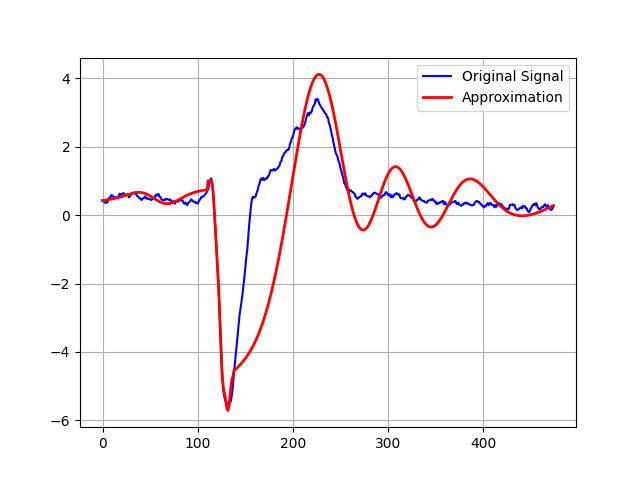
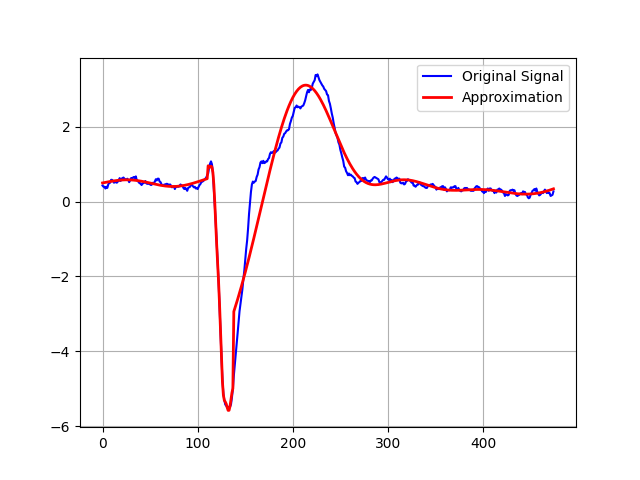
Hermite complete

diff --git a/tests/Hermite_tests/test_hermite_coeff.py b/tests/Hermite_tests/test_hermite_coeff.py
@@ -1,13 +1,14 @@
 from Hermite.hermite_coeff import hermite_coeff
 import numpy as np
+import numpy.testing as npt
 
 
 def test_1():
-    signal = np.array([0,-0.033729,-0.036644,-0.085781,-0.042474,-0.076204,0.013325,0.056632,0.053717,0.12784,0.12492,0.091195,0.042058,0.05455,0.051635,0.033313,0.061213,0.073705,0.14783,0.067875,0.12659,0.13908,0.15157,0.11785,0.099523,0.081201,0.1091,0.075371,0.010827,0.054134,0.11285,0.094526,0.12243,0.13492,0.10119,0.1445,0.033729,0.015407,-0.018322,-0.052052,-0.054967,-0.1041,-0.076204,-0.048304,-0.051219,-0.0079119,-0.072456,-0.090778,-0.078286,-0.096608,-0.11493,-0.13325,-0.12076,-0.077453,-0.095775,-0.052468,0.0062462,-0.027483,0.015824,0.012909,-0.067043,-0.085365,-0.14991,-0.16823,-0.18655,-0.15865,-0.17698,-0.14908,-0.15199,-0.17031,-0.18864,-0.17614,-0.20987,-0.25901,-0.24652,-0.23402,-0.31398,-0.25526,-0.25818,-0.24568,-0.26401,-0.23611,-0.20821,-0.24194,-0.24485,-0.3094,-0.34312,-0.31523,-0.34895,-0.39809,-0.32397,-0.31148,-0.29898,-0.24027,-0.25859,-0.29232,-0.32605,-0.31356,-0.3627,-0.3502,-0.38393,-0.32522,-0.28191,-0.25401,-0.1953,-0.19821,-0.18572,-0.15782,-0.12992,-0.10202,-0.043307,0])  # Your signal array
+    signal = np.array([0,-0.033729,-0.036644,-0.085781,-0.042474,-0.076204,0.013325,0.056632,0.053717,0.12784,0.12492,0.091195,0.042058,0.05455,0.051635,0.033313,0.061213,0.073705,0.14783,0.067875,0.12659,0.13908,0.15157,0.11785,0.099523,0.081201,0.1091,0.075371,0.010827,0.054134,0.11285,0.094526,0.12243,0.13492,0.10119,0.1445,0.033729,0.015407,-0.018322,-0.052052,-0.054967,-0.1041,-0.076204,-0.048304,-0.051219,-0.0079119,-0.072456,-0.090778,-0.078286,-0.096608,-0.11493,-0.13325,-0.12076,-0.077453,-0.095775,-0.052468,0.0062462,-0.027483,0.015824,0.012909,-0.067043,-0.085365,-0.14991,-0.16823,-0.18655,-0.15865,-0.17698,-0.14908,-0.15199,-0.17031,-0.18864,-0.17614,-0.20987,-0.25901,-0.24652,-0.23402,-0.31398,-0.25526,-0.25818,-0.24568,-0.26401,-0.23611,-0.20821,-0.24194,-0.24485,-0.3094,-0.34312,-0.31523,-0.34895,-0.39809,-0.32397,-0.31148,-0.29898,-0.24027,-0.25859,-0.29232,-0.32605,-0.31356,-0.3627,-0.3502,-0.38393,-0.32522,-0.28191,-0.25401,-0.1953,-0.19821,-0.18572,-0.15782,-0.12992,-0.10202,-0.043307,0])  
     dilat = 10               # Example dilation parameter
     trans = 0                 # Example translation parameter
     alpha = np.array([-14.2437,-13.6725,-13.2015,-12.7825,-12.3973,-12.0363,-11.694,-11.3666,-11.0514,-10.7466,-10.4506,-10.1623,-9.88086,-9.6054,-9.33532,-9.0701,-8.80928,-8.55246,-8.29931,-8.04952,-7.80283,-7.55899,-7.31781,-7.07908,-6.84264,-6.60833,-6.376,-6.14553,-5.91678,-5.68965,-5.46404,-5.23984,-5.01697,-4.79534,-4.57487,-4.35549,-4.13711,-3.91969,-3.70314,-3.48741,-3.27244,-3.05818,-2.84456,-2.63154,-2.41907,-2.20709,-1.99557,-1.78444,-1.57368,-1.36323,-1.15305,-0.943095,-0.733327,-0.523703,-0.314181,-0.10472,0.10472,0.314181,0.523703,0.733327,0.943095,1.15305,1.36323,1.57368,1.78444,1.99557,2.20709,2.41907,2.63154,2.84456,3.05818,3.27244,3.48741,3.70314,3.91969,4.13711,4.35549,4.57487,4.79534,5.01697,5.23984,5.46404,5.68965,5.91678,6.14553,6.376,6.60833,6.84264,7.07908,7.31781,7.55899,7.80283,8.04952,8.29931,8.55246,8.80928,9.0701,9.33532,9.6054,9.88086,10.1623,10.4506,10.7466,11.0514,11.3666,11.694,12.0363,12.3973,12.7825,13.2015,13.6725,14.2437])   # Roots of the Nth Hermite polynomial
-    Lambda2 = np.array([[1.5123,2.2026e-13,4.0004e-14,1.0579e-14,2.1289e-14,-7.276e-15,8.3006e-15,1.1423e-14,2.34e-14,-3.3649e-14,-4.2373e-15,7.2067e-15,1.3732e-14,-1.0539e-14,-1.3648e-15,-1.1976e-14,3.553e-15,3.545e-15,1.197e-15,-4.5212e-15,8.3468e-15,1.7849e-15,3.7045e-15,-3.8944e-15,4.9891e-15,-5.8e-15,6.0457e-15,-4.9279e-15,7.5839e-15,-5.6554e-15,4.1152e-15,-5.9194e-15,4.636e-15,-4.0993e-15,4.8569e-15,-4.6171e-15,3.8283e-15,-3.7689e-15,3.5033e-15,-3.215e-15,3.6277e-15,-3.0216e-15,3.97e-15,-3.7075e-15,3.5073e-15,-3.1188e-15,3.2602e-15,-2.643e-15,3.0332e-15,-2.9989e-15,2.9734e-15,-2.8871e-15,2.8463e-15,-2.8233e-15,2.7859e-15,-2.7345e-15,2.7364e-15,-2.6957e-15,2.6028e-15,-2.5164e-15,2.4661e-15,-2.4798e-15,2.5283e-15,-2.4503e-15,2.1656e-15,-2.2023e-15,2.171e-15,-1.9435e-15,2.2653e-15,-2.6684e-15,2.1875e-15,-2.8264e-15,2.2887e-15,-2.2466e-15,2.1341e-15,-1.7487e-15,2.4527e-15,-1.7383e-15,1.4043e-15,-1.1847e-15,2.7254e-15,-2.8048e-16,1.2631e-15,-1.0571e-15,1.5091e-15,-1.0033e-15,9.3585e-16,-1.4949e-15,2.779e-15,-1.7298e-15,3.901e-15,-1.3653e-15,1.8983e-15,-2.7756e-15,7.0118e-16,-6.8094e-16,3.7171e-15,-1.1876e-15,-1.2869e-16,-9.499e-16,4.724e-15,1.8332e-16,-2.3261e-15,-3.739e-15,1.9271e-15,-1.5283e-15,3.487e-15,-1.3676e-16,-3.6625e-17,-3.7606e-15,6.2751e-15,2.2204e-16]
+    Lambda = np.array([[1.5123,2.2026e-13,4.0004e-14,1.0579e-14,2.1289e-14,-7.276e-15,8.3006e-15,1.1423e-14,2.34e-14,-3.3649e-14,-4.2373e-15,7.2067e-15,1.3732e-14,-1.0539e-14,-1.3648e-15,-1.1976e-14,3.553e-15,3.545e-15,1.197e-15,-4.5212e-15,8.3468e-15,1.7849e-15,3.7045e-15,-3.8944e-15,4.9891e-15,-5.8e-15,6.0457e-15,-4.9279e-15,7.5839e-15,-5.6554e-15,4.1152e-15,-5.9194e-15,4.636e-15,-4.0993e-15,4.8569e-15,-4.6171e-15,3.8283e-15,-3.7689e-15,3.5033e-15,-3.215e-15,3.6277e-15,-3.0216e-15,3.97e-15,-3.7075e-15,3.5073e-15,-3.1188e-15,3.2602e-15,-2.643e-15,3.0332e-15,-2.9989e-15,2.9734e-15,-2.8871e-15,2.8463e-15,-2.8233e-15,2.7859e-15,-2.7345e-15,2.7364e-15,-2.6957e-15,2.6028e-15,-2.5164e-15,2.4661e-15,-2.4798e-15,2.5283e-15,-2.4503e-15,2.1656e-15,-2.2023e-15,2.171e-15,-1.9435e-15,2.2653e-15,-2.6684e-15,2.1875e-15,-2.8264e-15,2.2887e-15,-2.2466e-15,2.1341e-15,-1.7487e-15,2.4527e-15,-1.7383e-15,1.4043e-15,-1.1847e-15,2.7254e-15,-2.8048e-16,1.2631e-15,-1.0571e-15,1.5091e-15,-1.0033e-15,9.3585e-16,-1.4949e-15,2.779e-15,-1.7298e-15,3.901e-15,-1.3653e-15,1.8983e-15,-2.7756e-15,7.0118e-16,-6.8094e-16,3.7171e-15,-1.1876e-15,-1.2869e-16,-9.499e-16,4.724e-15,1.8332e-16,-2.3261e-15,-3.739e-15,1.9271e-15,-1.5283e-15,3.487e-15,-1.3676e-16,-3.6625e-17,-3.7606e-15,6.2751e-15,2.2204e-16]
         ,[2.2026e-13,1.9681,-4.2573e-13,1.6026e-13,-1.6582e-13,1.1635e-13,-1.0144e-13,6.1756e-14,-1.0221e-13,1.0948e-13,-5.284e-14,4.5165e-14,-6.913e-14,6.1799e-14,-4.3674e-14,5.8608e-14,-4.5839e-14,3.5097e-14,-3.9408e-14,4.2174e-14,-4.56e-14,3.16e-14,-3.7285e-14,3.6515e-14,-3.6923e-14,3.697e-14,-3.6371e-14,3.4288e-14,-3.6781e-14,3.3637e-14,-3.1195e-14,3.2753e-14,-3.0576e-14,2.9369e-14,-2.9778e-14,2.8965e-14,-2.7543e-14,2.7006e-14,-2.6197e-14,2.5405e-14,-2.5512e-14,2.4366e-14,-2.5098e-14,2.4436e-14,-2.3791e-14,2.2989e-14,-2.2841e-14,2.1745e-14,-2.1918e-14,2.1601e-14,-2.1215e-14,2.0921e-14,-2.0556e-14,2.0298e-14,-1.9945e-14,1.9637e-14,-1.9358e-14,1.9084e-14,-1.8746e-14,1.8419e-14,-1.814e-14,1.792e-14,-1.7711e-14,1.7425e-14,-1.6836e-14,1.6648e-14,-1.6437e-14,1.5902e-14,-1.6152e-14,1.639e-14,-1.565e-14,1.6214e-14,-1.5389e-14,1.5217e-14,-1.4946e-14,1.4292e-14,-1.501e-14,1.3985e-14,-1.3416e-14,1.2986e-14,-1.4687e-14,1.1627e-14,-1.2619e-14,1.2169e-14,-1.2513e-14,1.1739e-14,-1.1477e-14,1.2008e-14,-1.3285e-14,1.1888e-14,-1.4251e-14,1.114e-14,-1.1563e-14,1.2458e-14,-9.9022e-15,9.668e-15,-1.3133e-14,9.936e-15,-8.2946e-15,9.3675e-15,-1.3543e-14,7.687e-15,-4.9203e-15,1.1785e-14,-9.4002e-15,8.7821e-15,-1.0741e-14,6.55e-15,-5.9839e-15,1.0091e-14,-1.2546e-14,4.5148e-15]
         ,[4.0004e-14,-4.2573e-13,2.269,1.7376e-13,-8.3836e-15,3.2377e-14,-2.2153e-14,5.5229e-14,1.3976e-14,-3.3415e-14,-2.9652e-14,3.2329e-14,3.0002e-15,1.337e-15,-1.905e-14,-2.5188e-15,-9.5768e-15,1.9614e-14,-1.1894e-14,6.2576e-15,-2.7553e-16,1.4675e-14,-6.2927e-15,5.6282e-15,-3.7628e-15,2.4154e-15,-1.7637e-15,3.108e-15,9.0777e-16,1.6991e-15,-3.5955e-15,8.8124e-16,-2.4783e-15,2.9868e-15,-1.7891e-15,1.9371e-15,-2.8571e-15,2.6869e-15,-2.9463e-15,3.1806e-15,-2.4232e-15,3.1004e-15,-1.7462e-15,1.9261e-15,-2.1009e-15,2.5191e-15,-2.2311e-15,2.989e-15,-2.2935e-15,2.2749e-15,-2.2502e-15,2.216e-15,-2.1679e-15,2.1048e-15,-2.108e-15,2.1049e-15,-2.0116e-15,1.9865e-15,-2.0697e-15,2.0044e-15,-2.0608e-15,1.9325e-15,-1.7985e-15,1.8425e-15,-2.1794e-15,2.0371e-15,-1.9765e-15,2.238e-15,-1.717e-15,1.1559e-15,-1.6853e-15,8.1102e-16,-1.4424e-15,1.4045e-15,-1.4887e-15,1.9798e-15,-9.682e-16,1.8531e-15,-2.2657e-15,2.4964e-15,-3.8092e-16,3.472e-15,-2.1293e-15,2.3292e-15,-1.6719e-15,2.2844e-15,-2.2792e-15,1.458e-15,1.8788e-16,1.0789e-15,1.7811e-15,1.5037e-15,-7.8277e-16,-4.2606e-16,-2.1875e-15,2.1609e-15,1.8277e-15,1.4138e-15,-2.9893e-15,1.5197e-15,3.3549e-15,2.7671e-15,-5.4856e-15,-2.2936e-15,1.8645e-17,4.5503e-16,2.1052e-15,1.9842e-15,-2.0556e-15,-2.6645e-15,6.324e-15,1.4894e-15]
         ,[1.0579e-14,1.6026e-13,1.7376e-13,2.4997,-1.873e-13,5.6158e-14,-4.5926e-14,-1.4057e-14,-6.8684e-14,8.5779e-14,-9.9447e-16,-5.1378e-15,-3.5094e-14,2.76e-14,-4.7665e-15,2.8303e-14,-1.2685e-14,1.4613e-16,-7.8288e-15,1.3199e-14,-1.916e-14,2.2449e-15,-1.0928e-14,1.1115e-14,-1.262e-14,1.3641e-14,-1.3816e-14,1.1834e-14,-1.5819e-14,1.2552e-14,-1.0008e-14,1.2685e-14,-1.0582e-14,9.659e-15,-1.0704e-14,1.0233e-14,-8.8823e-15,8.793e-15,-8.2466e-15,7.7569e-15,-8.3923e-15,7.3435e-15,-8.6545e-15,8.279e-15,-7.8615e-15,7.2174e-15,-7.3755e-15,6.4018e-15,-6.9671e-15,6.803e-15,-6.6856e-15,6.6111e-15,-6.4555e-15,6.3773e-15,-6.2186e-15,6.0949e-15,-6.0478e-15,5.9064e-15,-5.7132e-15,5.5992e-15,-5.5191e-15,5.5295e-15,-5.5194e-15,5.3885e-15,-4.9503e-15,4.9992e-15,-4.969e-15,4.5568e-15,-4.9844e-15,5.5143e-15,-4.8135e-15,5.6794e-15,-4.8946e-15,4.8069e-15,-4.6377e-15,4.059e-15,-5.0464e-15,4.0336e-15,-3.4883e-15,3.1579e-15,-5.3447e-15,1.9016e-15,-3.2676e-15,2.9458e-15,-3.5628e-15,2.7774e-15,-2.6638e-15,3.4881e-15,-5.1678e-15,3.7475e-15,-6.7396e-15,3.1956e-15,-3.8978e-15,5.081e-15,-2.2206e-15,2.0872e-15,-6.3018e-15,2.7811e-15,-9.593e-16,2.3288e-15,-7.5133e-15,8.2311e-16,2.1081e-15,6.0767e-15,-3.5731e-15,3.0025e-15,-5.5847e-15,1.0592e-15,-8.8818e-16,5.8784e-15,-9.3082e-15,6.2107e-16]
@@ -119,7 +120,6 @@ def test_1():
         ,[-3.7606e-15,1.0091e-14,-2.6645e-15,5.8784e-15,-3.4934e-15,4.8232e-15,-4.7763e-15,7.7885e-15,-2.4877e-15,4.1101e-16,-7.4414e-15,8.2813e-15,-3.7485e-15,4.4603e-15,-7.6038e-15,3.9087e-15,-6.4064e-15,8.7569e-15,-7.3843e-15,6.297e-15,-4.9308e-15,8.9339e-15,-6.8474e-15,6.863e-15,-6.405e-15,6.0625e-15,-5.9642e-15,6.5513e-15,-5.1327e-15,6.2251e-15,-7.0962e-15,6.0617e-15,-6.9111e-15,7.3132e-15,-6.845e-15,6.9956e-15,-7.6447e-15,7.7507e-15,-8.049e-15,8.3458e-15,-8.0776e-15,8.6345e-15,-7.9281e-15,8.2018e-15,-8.4484e-15,8.9191e-15,-8.8206e-15,9.5754e-15,-9.2351e-15,9.3816e-15,-9.5219e-15,9.6592e-15,-9.8051e-15,9.9398e-15,-1.0117e-14,1.0223e-14,-1.0325e-14,1.0489e-14,-1.0811e-14,1.0989e-14,-1.1261e-14,1.1373e-14,-1.145e-14,1.1771e-14,-1.2387e-14,1.2512e-14,-1.2723e-14,1.3408e-14,-1.2889e-14,1.2304e-14,-1.3405e-14,1.2278e-14,-1.3578e-14,1.3844e-14,-1.4337e-14,1.552e-14,-1.3942e-14,1.6083e-14,-1.7346e-14,1.84e-14,-1.4023e-14,2.1931e-14,-1.9303e-14,2.0434e-14,-1.932e-14,2.1755e-14,-2.261e-14,2.086e-14,-1.6266e-14,2.1345e-14,-1.1766e-14,2.4616e-14,-2.2864e-14,1.8594e-14,-3.1631e-14,3.3397e-14,-1.3713e-14,3.3234e-14,-4.5652e-14,3.9474e-14,-5.2739e-15,5.8176e-14,-9.1455e-14,1.6209e-14,-4.7827e-14,6.3859e-14,-2.56e-14,1.6641e-13,-3.2241e-13,2.269,-2.0989e-13,-9.8873e-14]
         ,[6.2751e-15,-1.2546e-14,6.324e-15,-9.3082e-15,7.3658e-15,-8.845e-15,8.9616e-15,-1.1698e-14,7.0998e-15,-5.3129e-15,1.1891e-14,-1.2799e-14,8.7533e-15,-9.5425e-15,1.2516e-14,-9.2949e-15,1.1632e-14,-1.387e-14,1.2727e-14,-1.1833e-14,1.0678e-14,-1.442e-14,1.26e-14,-1.2714e-14,1.2422e-14,-1.2252e-14,1.2283e-14,-1.2945e-14,1.1826e-14,-1.2927e-14,1.3844e-14,-1.3022e-14,1.385e-14,-1.434e-14,1.4001e-14,-1.4279e-14,1.4933e-14,-1.5116e-14,1.5477e-14,-1.5841e-14,1.5692e-14,-1.6341e-14,1.579e-14,-1.6147e-14,1.6532e-14,-1.7062e-14,1.7126e-14,-1.7981e-14,1.7783e-14,-1.8025e-14,1.8343e-14,-1.8609e-14,1.8927e-14,-1.9193e-14,1.9516e-14,-1.9802e-14,2.0067e-14,-2.037e-14,2.0805e-14,-2.1138e-14,2.1462e-14,-2.1727e-14,2.2003e-14,-2.2421e-14,2.3213e-14,-2.3493e-14,2.3892e-14,-2.4633e-14,2.4442e-14,-2.4173e-14,2.5434e-14,-2.4643e-14,2.6131e-14,-2.6653e-14,2.73e-14,-2.8675e-14,2.7542e-14,-2.9781e-14,3.1233e-14,-3.2456e-14,2.9032e-14,-3.6354e-14,3.4368e-14,-3.5835e-14,3.5365e-14,-3.7932e-14,3.922e-14,-3.8162e-14,3.482e-14,-3.9783e-14,3.2099e-14,-4.3841e-14,4.3148e-14,-4.0344e-14,5.2298e-14,-5.4693e-14,3.9561e-14,-5.7111e-14,6.8552e-14,-6.5148e-14,3.9692e-14,-8.4058e-14,1.1286e-13,-5.7955e-14,8.6571e-14,-1.0352e-13,8.4912e-14,-1.8232e-13,2.5875e-13,-2.0989e-13,1.9681,3.1141e-13]
         ,[2.2204e-16,4.5148e-15,1.4894e-15,6.2107e-16,1.4157e-15,-5.8711e-16,8.0742e-16,1.3057e-15,2.9113e-15,-4.6909e-15,-6.3602e-16,1.2036e-15,2.4772e-15,-2.0607e-15,-3.0224e-16,-2.6534e-15,8.7155e-16,8.5574e-16,3.1094e-16,-1.24e-15,2.4656e-15,5.5539e-16,1.1859e-15,-1.3233e-15,1.7965e-15,-2.1616e-15,2.3145e-15,-1.9952e-15,3.1443e-15,-2.4471e-15,1.8607e-15,-2.7331e-15,2.2482e-15,-2.0476e-15,2.4989e-15,-2.4517e-15,2.0864e-15,-2.1548e-15,2.0623e-15,-1.9338e-15,2.2643e-15,-1.9647e-15,2.6299e-15,-2.5102e-15,2.4394e-15,-2.2457e-15,2.416e-15,-2.0013e-15,2.4101e-15,-2.4409e-15,2.441e-15,-2.5044e-15,2.5249e-15,-2.5785e-15,2.5971e-15,-2.6564e-15,2.72e-15,-2.7759e-15,2.7127e-15,-2.7673e-15,2.7963e-15,-2.8695e-15,3.0006e-15,-3.0092e-15,2.7319e-15,-2.8388e-15,2.9076e-15,-2.6466e-15,3.2179e-15,-3.9341e-15,3.3623e-15,-4.4383e-15,3.7194e-15,-3.7867e-15,3.7379e-15,-3.1472e-15,4.6394e-15,-3.4128e-15,2.7922e-15,-2.469e-15,5.9739e-15,-6.9346e-16,2.9835e-15,-2.6216e-15,3.886e-15,-2.6614e-15,2.5649e-15,-4.4908e-15,8.3552e-15,-5.4617e-15,1.2858e-14,-4.7422e-15,6.9115e-15,-1.0623e-14,2.9488e-15,-2.9068e-15,1.7014e-14,-5.7224e-15,-3.7196e-16,-5.4315e-15,2.8269e-14,9.3128e-16,-1.6495e-14,-2.9389e-14,1.68e-14,-1.5427e-14,4.1109e-14,-1.4762e-15,-8.1152e-16,-9.8873e-14,3.1141e-13,1.5123]])  # Normalization parameters
-
 
     HMS = np.array([[6.6103e-45,-1.3316e-43]
         ,[1.9174e-41,-3.7074e-40]
@@ -234,6 +234,77 @@ def test_1():
         ,[1.9174e-41,3.7074e-40]
         ,[6.6103e-45,1.3316e-43]])     # Hermite polynomial values at roots
 
-    co = hermite_coeff(signal, dilat, trans, alpha, Lambda2, HMS)
-    assert round(co[0], 6)==0.010074
-    assert round(co[1], 6)==0.000269
+    expecting=np.array([0.010074, 0.000269])
+
+    co = hermite_coeff(signal, dilat, trans, alpha, Lambda, HMS)
+    npt.assert_array_almost_equal(co, expecting , 6)
+
+
+def test_2():
+    signal = np.array([0,0.35437,0.66251,0.92444,1.0477,1.0169,0.80118,0.53926,0.27733,-0.046222,-0.35437,-0.69333,-1.1864,-1.6794,-2.0954,-2.496,-2.6809,-2.6501,-2.573,-2.4035,-2.2495,-2.0338,-1.8335,-1.6332,-1.3712,-0.98607,-0.55466,0])
+    dilat = 0.27027              
+    trans = 0                 
+    alpha = np.array([-6.5916,-5.857,-5.2433,-4.6908,-4.1766,-3.6891,-3.2211,-2.7678,-2.3257,-1.8924,-1.4655,-1.0435,-0.62484,-0.20807,0.20807,0.62484,1.0435,1.4655,1.8924,2.3257,2.7678,3.2211,3.6891,4.1766,4.6908,5.2433,5.857,6.5916])   # Roots of the Nth Hermite polynomial
+    Lambda = np.array([[1.1838,2.5935e-15,6.3769e-15,5.9311e-15,-2.7299e-15,4.4512e-16,-7.1629e-16,-2.9556e-17,-4.3803e-17,-1.3242e-16,6.7094e-18,1.6574e-16,-1.0144e-16,1.5701e-16,-1.2478e-16,2.5164e-16,-4.717e-16,3.3978e-16,-5.1556e-16,2.5645e-16,-9.4691e-17,-1.6002e-16,4.417e-17,-2.2055e-17,2.3979e-16,7.0205e-16,7.1578e-17,-4.9308e-16]
+        ,[2.5935e-15,1.5198,-1.9307e-14,-8.5187e-15,2.9455e-15,3.3749e-16,1.5776e-16,8.0229e-16,-6.5992e-16,7.4267e-16,-6.3907e-16,2.6406e-16,-2.8266e-16,2.5763e-16,-2.2892e-16,4.7679e-17,2.2514e-16,-7.9741e-17,3.1364e-16,5.0238e-17,-1.9515e-16,4.5098e-16,-2.6149e-16,2.6649e-16,-5.0461e-16,-7.0028e-16,-2.6621e-16,6.642e-16]
+        ,[6.3769e-15,-1.9307e-14,1.7307,4.5086e-14,-1.8014e-14,8.4107e-15,-7.0623e-15,4.7151e-15,-4.2553e-15,3.5042e-15,-3.2158e-15,3.2295e-15,-2.9064e-15,2.6976e-15,-2.5173e-15,2.5177e-15,-2.632e-15,2.3274e-15,-2.4901e-15,1.9515e-15,-1.6489e-15,1.1921e-15,-1.2781e-15,1.1483e-15,-7.7716e-16,1.8319e-15,-7.9103e-16,1.0408e-16]
+        ,[5.9311e-15,-8.5187e-15,4.5086e-14,1.884,-1.0937e-14,1.284e-14,-8.3027e-15,8.1219e-15,-6.3095e-15,5.702e-15,-4.7191e-15,3.8381e-15,-3.5258e-15,3.2534e-15,-2.9486e-15,2.5538e-15,-1.8895e-15,2.0114e-15,-1.5041e-15,1.7987e-15,-1.841e-15,2.0587e-15,-1.7556e-15,1.6784e-15,-1.9291e-15,2.6259e-16,-1.2961e-15,1.6362e-15]
+        ,[-2.7299e-15,2.9455e-15,-1.8014e-14,-1.0937e-14,2.0026,-1.4495e-14,6.0472e-15,-6.6967e-15,4.8696e-15,-4.4064e-15,3.4769e-15,-2.636e-15,2.3298e-15,-2.0137e-15,1.751e-15,-1.4684e-15,9.8781e-16,-1.1286e-15,5.6351e-16,-9.135e-16,1.1007e-15,-1.4833e-15,1.1093e-15,-1.0126e-15,1.3708e-15,3.104e-16,9.175e-16,-1.3297e-15]
+        ,[4.4512e-16,3.3749e-16,8.4107e-15,1.284e-14,-1.4495e-14,2.0972,2.9651e-15,1.7908e-15,-9.9568e-16,1.5904e-15,-1.0542e-15,3.138e-16,-2.5878e-16,1.8294e-16,-1.4263e-16,-2.0092e-17,5.7496e-16,-2.2651e-16,5.4997e-16,-1.2973e-16,-9.828e-17,5.209e-16,-2.446e-16,2.6298e-16,-7.0253e-16,-1.0627e-15,-3.9782e-16,9.2138e-16]
+        ,[-7.1629e-16,1.5776e-16,-7.0623e-15,-8.3027e-15,6.0472e-15,2.9651e-15,2.1739,-8.4422e-15,3.0728e-15,-3.0131e-15,1.9069e-15,-1.1141e-15,1.0356e-15,-9.4315e-16,6.8106e-16,-2.2905e-16,-3.4671e-16,6.8553e-17,-5.3252e-16,-1.5686e-16,4.1052e-16,-8.2064e-16,4.7388e-16,-5.1487e-16,8.1668e-16,9.8231e-16,5.4631e-16,-1.0614e-15]
+        ,[-2.9556e-17,8.0229e-16,4.7151e-15,8.1219e-15,-6.6967e-15,1.7908e-15,-8.4422e-15,2.2362,1.3375e-15,-1.0826e-17,1.8384e-16,-8.5699e-16,3.4511e-16,-3.014e-16,4.9388e-16,-6.9387e-16,1.3071e-15,-9.5255e-16,1.3527e-15,-6.5926e-16,2.7379e-16,2.9951e-16,5.6168e-17,6.9196e-17,-4.7707e-16,-1.4592e-15,-2.3389e-16,9.0494e-16]
+        ,[-4.3803e-17,-6.5992e-16,-4.2553e-15,-6.3095e-15,4.8696e-15,-9.9568e-16,3.0728e-15,1.3375e-15,2.2866,-2.4871e-15,2.558e-16,8.5716e-16,-3.7049e-16,7.6431e-17,-2.1322e-16,7.333e-16,-1.2259e-15,7.6324e-16,-1.5078e-15,5.0161e-16,-2.054e-16,-5.51e-16,1.6304e-16,-6.3783e-17,6.3323e-16,1.5074e-15,2.7536e-16,-9.4195e-16]
+        ,[-1.3242e-16,7.4267e-16,3.5042e-15,5.702e-15,-4.4064e-15,1.5904e-15,-3.0131e-15,-1.0826e-17,-2.4871e-15,2.3267,9.0862e-16,-2.7863e-15,1.3712e-15,-8.5781e-16,8.1406e-16,-1.1929e-15,1.8521e-15,-1.2203e-15,1.8505e-15,-1.0539e-15,2.7889e-16,2.2791e-16,-3.71e-17,8.8038e-18,-5.6821e-16,-1.7372e-15,-2.0816e-16,9.259e-16]
+        ,[6.7094e-18,-6.3907e-16,-3.2158e-15,-4.7191e-15,3.4769e-15,-1.0542e-15,1.9069e-15,1.8384e-16,2.558e-16,9.0862e-16,2.3577,2.7202e-15,-1.9578e-15,1.1444e-15,-6.1482e-16,1.2522e-15,-1.8427e-15,1.1338e-15,-1.8674e-15,8.289e-16,-3.9523e-16,-4.5415e-16,2.8968e-17,-1.8339e-16,6.7204e-16,1.7647e-15,2.5929e-16,-1.0704e-15]
+        ,[1.6574e-16,2.6406e-16,3.2295e-15,3.8381e-15,-2.636e-15,3.138e-16,-1.1141e-15,-8.5699e-16,8.5716e-16,-2.7863e-15,2.7202e-15,2.3803,-1.0672e-15,3.4415e-16,1.809e-16,-4.4781e-16,1.6065e-15,-8.6753e-16,1.5118e-15,-3.4599e-16,-7.0444e-17,7.7716e-16,-3.3307e-16,5.4123e-16,-9.4369e-16,-1.7031e-15,-4.558e-16,1.2471e-15]
+        ,[-1.0144e-16,-2.8266e-16,-2.9064e-15,-3.5258e-15,2.3298e-15,-2.5878e-16,1.0356e-15,3.4511e-16,-3.7049e-16,1.3712e-15,-1.9578e-15,-1.0672e-15,2.3951,-1.8105e-16,-9.4151e-17,1.2202e-15,-2.2062e-15,1.0489e-15,-1.7766e-15,6.3652e-16,8.3277e-17,-7.7659e-16,3.8631e-16,-3.4726e-16,1.0214e-15,1.8398e-15,4.7435e-16,-1.2772e-15]
+        ,[1.5701e-16,2.5763e-16,2.6976e-15,3.2534e-15,-2.0137e-15,1.8294e-16,-9.4315e-16,-3.014e-16,7.6431e-17,-8.5781e-16,1.1444e-15,3.4415e-16,-1.8105e-16,2.4025,2.0309e-16,-1.7781e-15,3.2348e-15,-1.4014e-15,2.2627e-15,-6.8944e-16,6.7026e-17,8.6464e-16,-4.3554e-16,2.5179e-16,-1.066e-15,-1.9633e-15,-5.0531e-16,1.3158e-15]
+        ,[-1.2478e-16,-2.2892e-16,-2.5173e-15,-2.9486e-15,1.751e-15,-1.4263e-16,6.8106e-16,4.9388e-16,-2.1322e-16,8.1406e-16,-6.1482e-16,1.809e-16,-9.4151e-17,2.0309e-16,2.4025,2.2337e-15,-4.6341e-15,2.2734e-15,-2.7879e-15,6.3194e-16,1.1519e-16,-1.1854e-15,4.2298e-16,-3.0827e-16,1.2212e-15,2.0539e-15,6.1062e-16,-1.4433e-15]
+        ,[2.5164e-16,4.7679e-17,2.5177e-15,2.5538e-15,-1.4684e-15,-2.0092e-17,-2.2905e-16,-6.9387e-16,7.333e-16,-1.1929e-15,1.2522e-15,-4.4781e-16,1.2202e-15,-1.7781e-15,2.2337e-15,2.3951,5.7751e-15,-1.4813e-15,2.9861e-15,-1.9442e-16,-7.8923e-16,1.8991e-15,-9.5398e-16,9.1529e-16,-1.5621e-15,-2.0479e-15,-8.3612e-16,1.6723e-15]
+        ,[-4.717e-16,2.2514e-16,-2.632e-15,-1.8895e-15,9.8781e-16,5.7496e-16,-3.4671e-16,1.3071e-15,-1.2259e-15,1.8521e-15,-1.8427e-15,1.6065e-15,-2.2062e-15,3.2348e-15,-4.6341e-15,5.7751e-15,2.3803,-2.9243e-15,-1.6739e-15,-1.1865e-15,2.2571e-15,-3.2523e-15,1.9808e-15,-1.8809e-15,2.2485e-15,1.7891e-15,1.3256e-15,-2.1166e-15]
+        ,[3.3978e-16,-7.9741e-17,2.3274e-15,2.0114e-15,-1.1286e-15,-2.2651e-16,6.8553e-17,-9.5255e-16,7.6324e-16,-1.2203e-15,1.1338e-15,-8.6753e-16,1.0489e-15,-1.4014e-15,2.2734e-15,-1.4813e-15,-2.9243e-15,2.3577,4.9824e-15,5.8068e-16,-1.8337e-15,3.4192e-15,-1.8291e-15,1.6654e-15,-2.2109e-15,-2.3057e-15,-1.1919e-15,2.102e-15]
+        ,[-5.1556e-16,3.1364e-16,-2.4901e-15,-1.5041e-15,5.6351e-16,5.4997e-16,-5.3252e-16,1.3527e-15,-1.5078e-15,1.8505e-15,-1.8674e-15,1.5118e-15,-1.7766e-15,2.2627e-15,-2.7879e-15,2.9861e-15,-1.6739e-15,4.9824e-15,2.3267,-6.789e-15,5.1099e-15,-6.1608e-15,3.6421e-15,-2.8967e-15,3.4202e-15,2.0554e-15,1.8164e-15,-2.6869e-15]
+        ,[2.5645e-16,5.0238e-17,1.9515e-15,1.7987e-15,-9.135e-16,-1.2973e-16,-1.5686e-16,-6.5926e-16,5.0161e-16,-1.0539e-15,8.289e-16,-3.4599e-16,6.3652e-16,-6.8944e-16,6.3194e-16,-1.9442e-16,-1.1865e-15,5.8068e-16,-6.789e-15,2.2866,-4.3863e-15,5.0597e-15,-2.4099e-15,2.0057e-15,-2.9364e-15,-3.0755e-15,-1.331e-15,2.3966e-15]
+        ,[-9.4691e-17,-1.9515e-16,-1.6489e-15,-1.841e-15,1.1007e-15,-9.828e-17,4.1052e-16,2.7379e-16,-2.054e-16,2.7889e-16,-3.9523e-16,-7.0444e-17,8.3277e-17,6.7026e-17,1.1519e-16,-7.8923e-16,2.2571e-15,-1.8337e-15,5.1099e-15,-4.3863e-15,2.2362,-6.5204e-15,1.3044e-15,-1.6342e-15,2.9253e-15,4.1662e-15,9.0351e-16,-2.3528e-15]
+        ,[-1.6002e-16,4.5098e-16,1.1921e-15,2.0587e-15,-1.4833e-15,5.209e-16,-8.2064e-16,2.9951e-16,-5.51e-16,2.2791e-16,-4.5415e-16,7.7716e-16,-7.7659e-16,8.6464e-16,-1.1854e-15,1.8991e-15,-3.2523e-15,3.4192e-15,-6.1608e-15,5.0597e-15,-6.5204e-15,2.1739,3.2705e-15,-9.6812e-16,-1.47e-15,-6.2838e-15,-3.0946e-17,2.0071e-15]
+        ,[4.417e-17,-2.6149e-16,-1.2781e-15,-1.7556e-15,1.1093e-15,-2.446e-16,4.7388e-16,5.6168e-17,1.6304e-16,-3.71e-17,2.8968e-17,-3.3307e-16,3.8631e-16,-4.3554e-16,4.2298e-16,-9.5398e-16,1.9808e-15,-1.8291e-15,3.6421e-15,-2.4099e-15,1.3044e-15,3.2705e-15,2.0972,-8.8038e-16,3.3707e-15,6.9613e-15,7.2427e-16,-2.7104e-15]
+        ,[-2.2055e-17,2.6649e-16,1.1483e-15,1.6784e-15,-1.0126e-15,2.6298e-16,-5.1487e-16,6.9196e-17,-6.3783e-17,8.8038e-18,-1.8339e-16,5.4123e-16,-3.4726e-16,2.5179e-16,-3.0827e-16,9.1529e-16,-1.8809e-15,1.6654e-15,-2.8967e-15,2.0057e-15,-1.6342e-15,-9.6812e-16,-8.8038e-16,2.0026,-5.7953e-15,-1.0631e-14,-9.7925e-16,3.0814e-15]
+        ,[2.3979e-16,-5.0461e-16,-7.7716e-16,-1.9291e-15,1.3708e-15,-7.0253e-16,8.1668e-16,-4.7707e-16,6.3323e-16,-5.6821e-16,6.7204e-16,-9.4369e-16,1.0214e-15,-1.066e-15,1.2212e-15,-1.5621e-15,2.2485e-15,-2.2109e-15,3.4202e-15,-2.9364e-15,2.9253e-15,-1.47e-15,3.3707e-15,-5.7953e-15,1.884,2.5085e-14,-8.1055e-16,-2.619e-15]
+        ,[7.0205e-16,-7.0028e-16,1.8319e-15,2.6259e-16,3.104e-16,-1.0627e-15,9.8231e-16,-1.4592e-15,1.5074e-15,-1.7372e-15,1.7647e-15,-1.7031e-15,1.8398e-15,-1.9633e-15,2.0539e-15,-2.0479e-15,1.7891e-15,-2.3057e-15,2.0554e-15,-3.0755e-15,4.1662e-15,-6.2838e-15,6.9613e-15,-1.0631e-14,2.5085e-14,1.7307,-1.8568e-14,1.1851e-14]
+        ,[7.1578e-17,-2.6621e-16,-7.9103e-16,-1.2961e-15,9.175e-16,-3.9782e-16,5.4631e-16,-2.3389e-16,2.7536e-16,-2.0816e-16,2.5929e-16,-4.558e-16,4.7435e-16,-5.0531e-16,6.1062e-16,-8.3612e-16,1.3256e-15,-1.1919e-15,1.8164e-15,-1.331e-15,9.0351e-16,-3.0946e-17,7.2427e-16,-9.7925e-16,-8.1055e-16,-1.8568e-14,1.5198,-7.1178e-15]
+        ,[-4.9308e-16,6.642e-16,1.0408e-16,1.6362e-15,-1.3297e-15,9.2138e-16,-1.0614e-15,9.0494e-16,-9.4195e-16,9.259e-16,-1.0704e-15,1.2471e-15,-1.2772e-15,1.3158e-15,-1.4433e-15,1.6723e-15,-2.1166e-15,2.102e-15,-2.6869e-15,2.3966e-15,-2.3528e-15,2.0071e-15,-2.7104e-15,3.0814e-15,-2.619e-15,1.1851e-14,-7.1178e-15,1.1838]])  # Normalization parameters
+
+    HMS = np.array([[2.7595e-10,-2.5724e-09,1.6761e-08,-8.8107e-08,3.9615e-07,-1.5727e-06,5.6235e-06]
+        ,[2.6703e-08,-2.2118e-07,1.2766e-06,-5.9243e-06,2.343e-05,-8.1494e-05,0.00025419]
+        ,[8.0518e-07,-5.9705e-06,3.0736e-05,-0.00012671,0.00044316,-0.0013563,0.0037011]
+        ,[1.2525e-05,-8.3088e-05,0.00038089,-0.001391,0.0042838,-0.011464,0.027138]
+        ,[0.00012239,-0.00072289,0.0029327,-0.009411,0.025254,-0.058291,0.11751]
+        ,[0.00083253,-0.0043435,0.015435,-0.042947,0.098664,-0.19179,0.31843]
+        ,[0.0041946,-0.019108,0.058582,-0.13847,0.26466,-0.41531,0.53076]
+        ,[0.016301,-0.063806,0.16508,-0.32096,0.48519,-0.56226,0.45557]
+        ,[0.05025,-0.16528,0.34886,-0.52753,0.56543,-0.35987,-0.032941]
+        ,[0.12534,-0.33544,0.54615,-0.56997,0.2897,0.16308,-0.44263]
+        ,[0.25664,-0.53191,0.59806,-0.28134,-0.22638,0.46147,-0.1838]
+        ,[0.43576,-0.64309,0.36295,0.21582,-0.47358,0.11952,0.36031]
+        ,[0.61792,-0.54603,-0.095758,0.49468,-0.13564,-0.38886,0.2641]
+        ,[0.73504,-0.21629,-0.47475,0.25725,0.3733,-0.27922,-0.30723]
+        ,[0.73504,0.21629,-0.47475,-0.25725,0.3733,0.27922,-0.30723]
+        ,[0.61792,0.54603,-0.095758,-0.49468,-0.13564,0.38886,0.2641]
+        ,[0.43576,0.64309,0.36295,-0.21582,-0.47358,-0.11952,0.36031]
+        ,[0.25664,0.53191,0.59806,0.28134,-0.22638,-0.46147,-0.1838]
+        ,[0.12534,0.33544,0.54615,0.56997,0.2897,-0.16308,-0.44263]
+        ,[0.05025,0.16528,0.34886,0.52753,0.56543,0.35987,-0.032941]
+        ,[0.016301,0.063806,0.16508,0.32096,0.48519,0.56226,0.45557]
+        ,[0.0041946,0.019108,0.058582,0.13847,0.26466,0.41531,0.53076]
+        ,[0.00083253,0.0043435,0.015435,0.042947,0.098664,0.19179,0.31843]
+        ,[0.00012239,0.00072289,0.0029327,0.009411,0.025254,0.058291,0.11751]
+        ,[1.2525e-05,8.3088e-05,0.00038089,0.001391,0.0042838,0.011464,0.027138]
+        ,[8.0518e-07,5.9705e-06,3.0736e-05,0.00012671,0.00044316,0.0013563,0.0037011]
+        ,[2.6703e-08,2.2118e-07,1.2766e-06,5.9243e-06,2.343e-05,8.1494e-05,0.00025419]
+        ,[2.7595e-10,2.5724e-09,1.6761e-08,8.8107e-08,3.9615e-07,1.5727e-06,5.6235e-06]])     # Hermite polynomial values at roots
+
+    expecting=np.array([-3.13,-2.2189,-0.5309,-1.3419,-0.045858,-0.83582,0.13653])
+    
+    co = hermite_coeff(signal, dilat, trans, alpha, Lambda, HMS)
+    npt.assert_array_almost_equal(co, expecting, 4)
+

diff --git a/code/Hermite/hermite_exp.py b/code/Hermite/hermite_exp.py
@@ -108,33 +108,20 @@ def hermite_exp(beat, onsets, offsets, basenums, acc, lowerbound, upperbound, st
         rootnum[i] = len(seg0)
         alpha[i] = hermite_roots(rootnum[i])
         hms = hermite_system(alpha[i], len(alpha[i]))
-        HMS[i] = hms[:, :basenums[i]] #matlabon több benne a nulla
-        Lambda[i] = np.matmul(hms, hms.T.conj()) #matlabon több benne a nulla
+        HMS[i] = hms[:, :basenums[i]] 
+        Lambda[i] = np.matmul(hms, hms.T) 
         M = len(seg0)
         if M % 2 == 0:
             tk[i] = np.arange(-M//2, M//2)
         else:
             tk[i] = np.arange(-np.floor(M/2), np.floor(M/2) + 1)
     
-    for b in np.arange(lowerbound, upperbound, step):
-        print(b, "------------")
-        #print(Lambda[0])
-       # if b==6.3:
-        #    exit(0)
+    for b in np.arange(lowerbound, upperbound, step):    
         for i, seg in enumerate(segments):
             # Computing the coefficients of the expansion
             co = hermite_coeff(segment0[i], 1 / b, 0, alpha[i], Lambda[i], HMS[i])
-            print(co)
             # Reconstructing the signal by using thresholded coefficients            
             uniform_hms = hermite_system(tk[i] / b, basenums[i])
-            """
-            if b==64:
-                print(b, '-----------')
-                print(segment0[i])
-                print(alpha[i])
-                print(Lambda[i])
-                print(HMS[i])
-            """
             qco = quant(co, acc)
             rec_segq = (uniform_hms @ qco).T  # Reconstruction using uniform sampling without quantization
             rec_seg = (uniform_hms @ co).T    # Reconstruction using uniform sampling with quantized coefficients
@@ -152,39 +139,42 @@ def hermite_exp(beat, onsets, offsets, basenums, acc, lowerbound, upperbound, st
         
         # Displaying the approximation at each step
         if show:
-            beat_aprx = hermite_recbeat(bm, la, best_co, best_b, tk)
-            beat_aprxq = hermite_recbeat(bm, la, best_qco, best_b, tk)
+            best_co_sparse = [csr_matrix(c).T for c in best_co]
+            best_qco_sparse = [csr_matrix(c).T for c in best_qco]
+            tk_sparse = [csr_matrix(t).T for t in tk]
+
+            beat_aprx = hermite_recbeat(bm, la, best_co_sparse, best_b, tk_sparse)
+            beat_aprxq = hermite_recbeat(bm, la, best_qco_sparse, best_b, tk_sparse)
+            plt.cla()
             plt.plot(beat, 'b', linewidth=2)
             plt.plot(beat_aprxq, 'r', linewidth=1)
-            plt.show()
             prd = np.sqrt(np.sum((beat - beat_aprx) ** 2) / np.sum((beat - np.mean(beat)) ** 2)) * 100
             prdq = np.sqrt(np.sum((beat - beat_aprxq) ** 2) / np.sum((beat - np.mean(beat)) ** 2)) * 100
             legend = ['Original signal', f'Apprx. (PRD: {prdq:.2f} %)']
             plt.legend(legend)
             plt.axis([0, len(beat), np.min(beat) - 0.05, np.max(beat) + 0.05])
             plt.draw()
-    #print(best_err)
-    #exit(0)
+            plt.pause(0.05)
+    
     for i in range(len(segments)):
-        #print(aprx[i].shape)
         if padding>0:
             aprx[i] = aprx[i][padding:-padding]
         m = (la[i + 1] - la[i]) / (len(aprx[i]) - 1)
         x = np.arange(len(aprx[i]))
         base_line = la[i] + m * x
         aprx[i] += base_line
-#    exit(0)
+
     # Displaying the final result
     if show:
         plt.figure(1)
         plt.plot(beat)
-        plt.plot(np.arange(QRS_on, QRS_off + 1), QRS, 'r', linewidth=2)
-        plt.plot(np.arange(1, QRS_on), P[:-1], 'g', linewidth=2)
-        plt.plot(np.arange(QRS_off + 1, len(beat) + 1), T[1:], 'k', linewidth=2)
+        plt.plot(np.arange(QRS_on-1, QRS_off ), QRS, 'r', linewidth=2)
+        plt.plot(np.arange(QRS_on-1), P[:-1], 'g', linewidth=2)
+        plt.plot(np.arange(QRS_off , len(beat) ), T[1:], 'k', linewidth=2)
         plt.plot(wp, la, 'r.')
         plt.plot([QRS_on, QRS_off], beat[[QRS_on, QRS_off]], 'g.')
         plt.show()
-
+    """
         tt = np.round([(QRS_on + 1) / 2, (QRS_on + QRS_off) / 2, (QRS_off + len(beat)) / 2]).astype(int)
         beat_aprx = np.concatenate([aprx[0][:-1], aprx[1][:-1], aprx[2]])
         plt.plot(beat, 'b', linewidth=2)
@@ -200,14 +190,13 @@ def hermite_exp(beat, onsets, offsets, basenums, acc, lowerbound, upperbound, st
         plt.axis('tight')
         plt.grid(True)
         plt.show()
+    """
 
     co = best_qco
     prds = np.zeros(len(co))
     for i in range(len(co)):
         co[i] = co[i].T
         # Computing the prd of each segment
-        #print(segments[i])
-        #print(aprx[i])
         prds[i] = np.linalg.norm(segments[i] - aprx[i]) / np.linalg.norm(segments[i] - np.mean(segments[i])) * 100
 
     b = best_b

diff --git a/code/Hermite/hermite_system.py b/code/Hermite/hermite_system.py
@@ -18,24 +18,12 @@ def hermite_system(alpha, k, b=1):
     return Phi
 
 def hermite(n, x, b):
-    """
-    Compute the first 'n' Hermite functions at points 'x' with dilation parameter 'b'.
-
-    Parameters:
-    - n : number of Hermite functions to compute
-    - x : points at which to compute the Hermite functions
-    - b : dilation parameter
-
-    Returns:
-    - H : matrix where each column contains the values of the Hermite function at points 'x'
-    """
     H = np.zeros((x.shape[0], n))
     x = np.reshape(x, (x.shape[0], 1))
     xx = np.reshape(x / b, (x.shape[0], 1))
     w = np.exp(-x**2 / (2 * b**2))  # weight function
     H[:, 0] = w[:, 0]               # zero order Hermite polynomial
-    if n > 1:
-        H[:, 1] = 2 * xx[:, 0] * w[:, 0] / np.sqrt(2)  # first order Hermite polynomial
+    H[:, 1] = 2 * xx[:, 0] * w[:, 0] / np.sqrt(2)  # first order Hermite polynomial
 
     # Hermite polynomials by recursion
     for i in range(2, n):

diff --git a/tests/Hermite_tests/test_auxiliary_quant.py b/tests/Hermite_tests/test_auxiliary_quant.py
@@ -1,0 +1,18 @@
+from Hermite.hermite_exp import quant
+import numpy as np
+import pytest
+
+@pytest.mark.parametrize(
+    "data,exp1,exp2",
+    [
+        ([0.010074,0.00026887], 0.007843, 0.0),
+        ([-0.040827,0.052044], -0.039216, 0.054902),
+    ],
+)
+def test_quant(data, exp1, exp2):    
+    data=np.array(data)
+    eps=8
+
+    res=quant(data, eps)
+    assert round(res[0], 6)==exp1
+    assert round(res[1], 6)==exp2

diff --git a/code/Hermite/subsample.py b/code/Hermite/subsample.py
@@ -17,6 +17,11 @@ def subsample(sample, tk, xk):
         y : the interpolated value at the point(s) xk according to sample
     """
 
-    f=make_interp_spline(tk, sample)
-    return f(xk)
+    spline = make_interp_spline(tk, sample, k=3)
+    y = spline(xk)
+    
+    # Set out-of-bounds values to 0, similar to MATLAB's 'spline', 0 behavior
+    y[np.logical_or(xk < tk[0], xk > tk[-1])] = 0
+    
+    return y
     

diff --git a/code/Hermite/example.py b/code/Hermite/example.py
@@ -47,7 +47,7 @@ plt.savefig('results/hermite_signal_approx.png')
 
 
 ## Displaying statistical informations.
-print('------------------- B-spline approximation -------------------')
+print('------------------- Hermite approximation -------------------')
 print(f'The approximation error in the sense of PRD: {prd:.2f} %')
 print(f'Number of segments: {len(basenums)}')
 print(f'Number of coefficients: {sum(basenums)}')

diff --git a/code/Hermite/hermite_recbeat.py b/code/Hermite/hermite_recbeat.py
@@ -55,7 +55,6 @@ def hermite_recbeat(bm, la, co, b, tk=None):
     # Baseline or trend reconstruction
     sig = []
     for i in range(len(la) - 1):
-        #print(aprx[i])
         m = (la[i + 1] - la[i]) / (len(aprx[i][0]) - 1)
         x = np.arange(len(aprx[i][0]))
         base_line = la[i] + m * x

diff --git a/code/Hermite/hermite_coeff.py b/code/Hermite/hermite_coeff.py
@@ -53,6 +53,6 @@ def hermite_coeff(signal, dilat, trans, alpha=None, Lambda=None, HMS=None):
     s = subsample(s, dilat * tk, alpha)  # dilation
     
     # Computing the Hermite coefficients
-    co = HMS.T @ solve(Lambda, s)
+    co = np.matmul(HMS.T, solve(Lambda, s.T))
     
     return co
